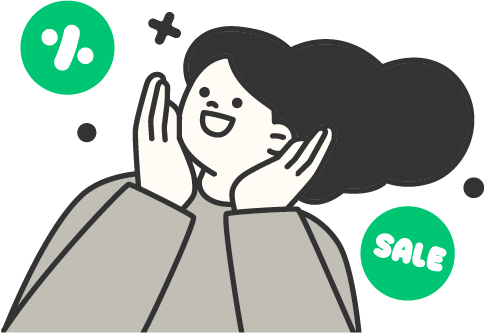
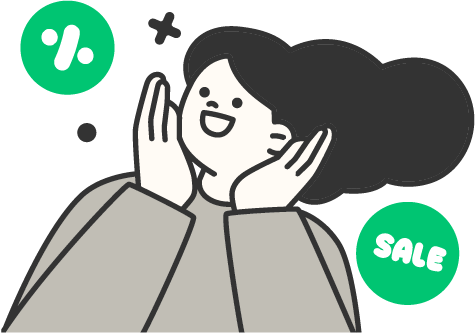
Change image size

diff --git a/src/components/layout/IntroLayout.jsx b/src/components/layout/IntroLayout.jsx
@@ -1,7 +1,7 @@
 import React from 'react'
 import { styled } from 'styled-components';
-import Character from "../../assets/dangeunee_01.png"
-import Character2 from "../../assets/dangeunee_02.png"
+import Character from "../../assets/image_01.png"
+import Character2 from "../../assets/image_02.png"
 
 function IntroLayout({children}) {
   return (
@@ -11,8 +11,8 @@ function IntroLayout({children}) {
                 {children}
             </Wrap>
         </StContainer>
-        <img src={Character2} alt='당근이' className='tcharacter'/>
-        <img src={Character} alt='당근이' className='bcharacter'/>
+        <img src={Character2} alt='식품' className='tcharacter'/>
+        <img src={Character} alt='소비자' className='bcharacter'/>
     </StLayout>
   )
 }
@@ -28,7 +28,7 @@ const StLayout = styled.div`
         bottom:0px;
         z-index:0;
         left:50px;
-        width:450px;
+        width:350px;
     }
     &>img.tcharacter{
         position:absolute;
